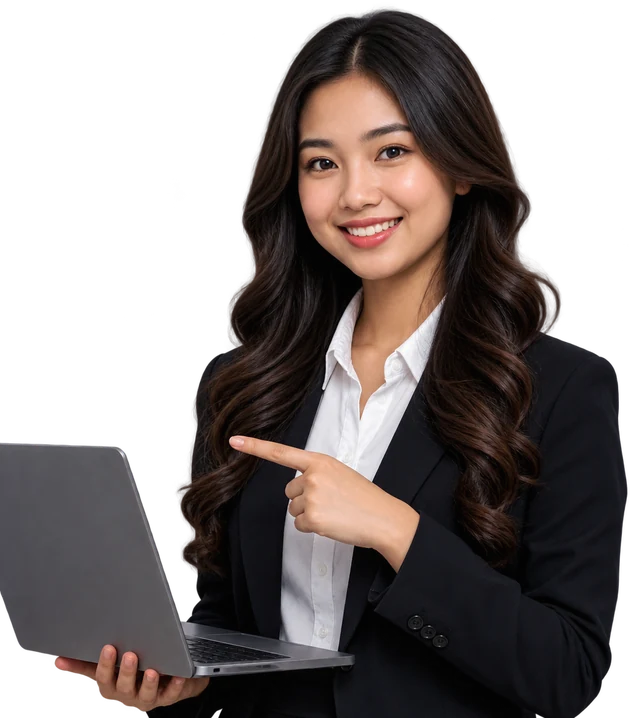
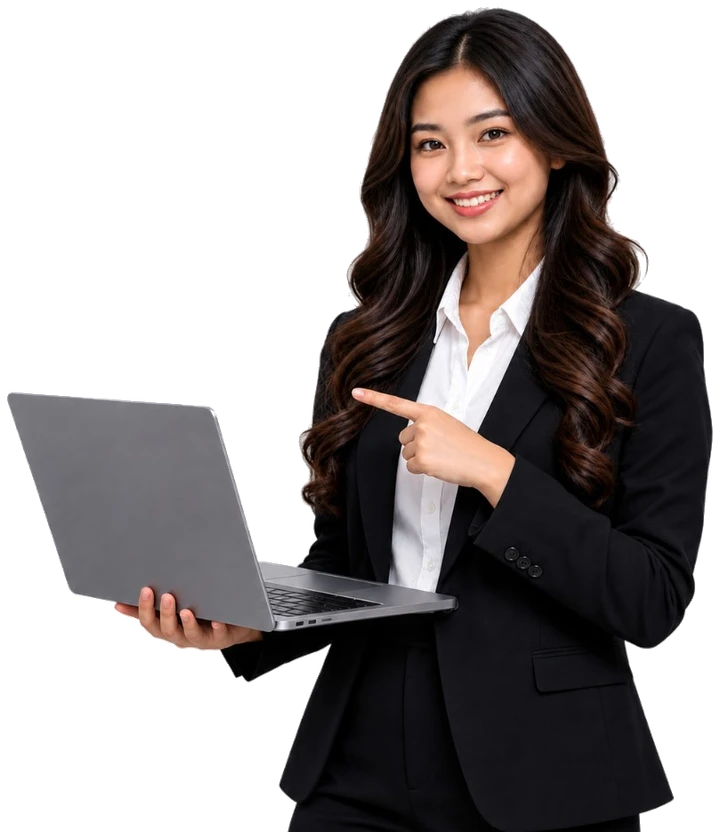
Update landing hero cutouts and passport demo names.
Swap in the professional and boy student assets, and rename the three sample passport cards to Priya Yadav, Harsh Sinha, and Mohan Reddy.

diff --git a/apps/web/src/components/landing/home/EmployerFeatures.tsx b/apps/web/src/components/landing/home/EmployerFeatures.tsx
@@ -104,13 +104,13 @@ function MatchWindow() {
   return (
     <>
       <MockHead title="Top matches" badge="12 CANDIDATES" />
-      <PersonRow initials="AR" name="Ananya Rao" role="Customer Success · 3 yrs" at={0.05}>
+      <PersonRow initials="MR" name="Mohan Reddy" role="Customer Success · 3 yrs" at={0.05}>
         <MatchMeter value={94} />
       </PersonRow>
-      <PersonRow initials="AM" name="Arjun Mehta" role="Support Lead · 4 yrs" at={0.2}>
+      <PersonRow initials="HS" name="Harsh Sinha" role="Support Lead · 4 yrs" at={0.2}>
         <MatchMeter value={89} />
       </PersonRow>
-      <PersonRow initials="PS" name="Priya Sharma" role="Customer Service · 2 yrs" at={0.35}>
+      <PersonRow initials="PY" name="Priya Yadav" role="Customer Service · 2 yrs" at={0.35}>
         <MatchMeter value={83} />
       </PersonRow>
       <div className="hl-mock__tip">Ranked by skills, experience and role fit</div>
@@ -124,8 +124,8 @@ function ShortlistWindow() {
     <>
       <MockHead title="Shortlist" badge="3 OF 12" />
       <PersonRow
-        initials="AR"
-        name="Ananya Rao"
+        initials="MR"
+        name="Mohan Reddy"
         role="Customer Success"
         insight="Strong CRM and communication"
         at={0.05}
@@ -133,8 +133,8 @@ function ShortlistWindow() {
         {tag}
       </PersonRow>
       <PersonRow
-        initials="AM"
-        name="Arjun Mehta"
+        initials="HS"
+        name="Harsh Sinha"
         role="Support Lead"
         insight="Led a team of 6"
         at={0.2}
@@ -142,8 +142,8 @@ function ShortlistWindow() {
         {tag}
       </PersonRow>
       <PersonRow
-        initials="PS"
-        name="Priya Sharma"
+        initials="PY"
+        name="Priya Yadav"
         role="Customer Service"
         insight="Verified skills match"
         at={0.35}
@@ -168,10 +168,10 @@ function InterviewWindow() {
         ))}
       </div>
       <div className="hl-win__slot is-active" style={delay(0.1)}>
-        <b>11:00 AM</b> · Interview · Ananya Rao
+        <b>11:00 AM</b> · Interview · Mohan Reddy
       </div>
       <div className="hl-win__slot" style={delay(0.25)}>
-        <b>2:30 PM</b> · Interview · Arjun Mehta
+        <b>2:30 PM</b> · Interview · Harsh Sinha
       </div>
       <div className="hl-win__slot is-free" style={delay(0.4)}>
         4:00 PM · Available

diff --git a/apps/web/src/components/landing/home/ChoosePath.tsx b/apps/web/src/components/landing/home/ChoosePath.tsx
@@ -37,10 +37,10 @@ export function ChoosePath() {
               </Link>
             </div>
             <Image
-              src="/landing/hero-professional.webp"
+              src="/landing/hero-professional.png"
               alt=""
-              width={640}
-              height={718}
+              width={720}
+              height={832}
               className="hl-path-card__image"
             />
           </article>
@@ -64,10 +64,10 @@ export function ChoosePath() {
               </Link>
             </div>
             <Image
-              src="/landing/candidate-student.webp"
+              src="/landing/candidate-boy.png"
               alt=""
-              width={330}
-              height={422}
+              width={520}
+              height={771}
               className="hl-path-card__image"
             />
           </article>

diff --git a/apps/web/src/components/landing/home/HeroPassportCards.tsx b/apps/web/src/components/landing/home/HeroPassportCards.tsx
@@ -13,23 +13,24 @@ type PassportCard = {
 const CARDS: PassportCard[] = [
   {
     variant: "back",
-    name: "Ananya Rao",
+    name: "Mohan Reddy",
     meta: "Bengaluru · Fresher",
     photo: "/landing/candidate-student.webp",
-    initials: "AR",
+    initials: "MR",
   },
   {
     variant: "mid",
-    name: "Arjun Mehta",
+    name: "Harsh Sinha",
     meta: "Pune · Data Analyst",
-    initials: "AM",
+    photo: "/landing/candidate-boy.png",
+    initials: "HS",
   },
   {
     variant: "front",
-    name: "Priya Sharma",
+    name: "Priya Yadav",
     meta: "Chennai · Customer Service",
     photo: "/landing/candidate-graduate.webp",
-    initials: "PS",
+    initials: "PY",
     note: "Profile rising to a stronger match.",
     chips: ["Communication", "MS Excel"],
   },

diff --git a/apps/web/src/components/landing/home/HomeHero.tsx b/apps/web/src/components/landing/home/HomeHero.tsx
@@ -37,10 +37,10 @@ export function HomeHero() {
 
         <div className="hl-hero__visual">
           <Image
-            src="/landing/hero-professional.webp"
+            src="/landing/hero-professional.png"
             alt="Smiling professional pointing at a laptop"
-            width={640}
-            height={718}
+            width={720}
+            height={832}
             className="hl-hero__cutout"
             priority
           />

diff --git a/apps/web/src/components/landing/home/CandidateFeatures.tsx b/apps/web/src/components/landing/home/CandidateFeatures.tsx
@@ -33,7 +33,7 @@ function PassportPreview() {
       <div className="hl-mock__who">
         <Image src="/landing/candidate-graduate.webp" alt="" width={330} height={424} />
         <div>
-          <b>Priya Sharma</b>
+          <b>Priya Yadav</b>
           <span>Chennai · Customer Service</span>
         </div>
       </div>

diff --git a/apps/web/src/components/landing/PassportDeck.tsx b/apps/web/src/components/landing/PassportDeck.tsx
@@ -14,8 +14,8 @@ const DECK = [
     skills: ["Communication", "MS Excel"],
   },
   {
-    name: "Priya Sharma",
-    initials: "PS",
+    name: "Priya Yadav",
+    initials: "PY",
     tone: "#14b8a6",
     loc: "Bengaluru · Data Analyst",
     ready: 64,
